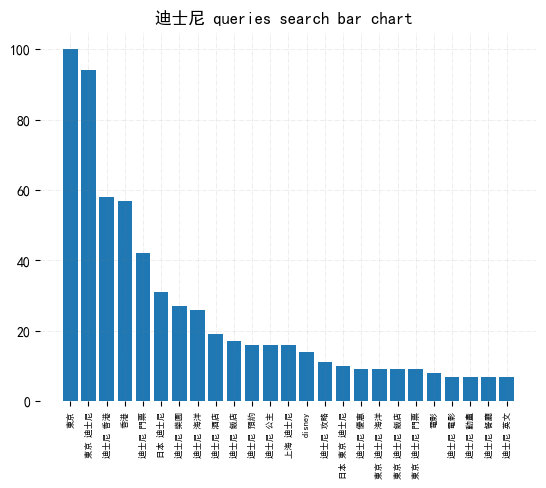
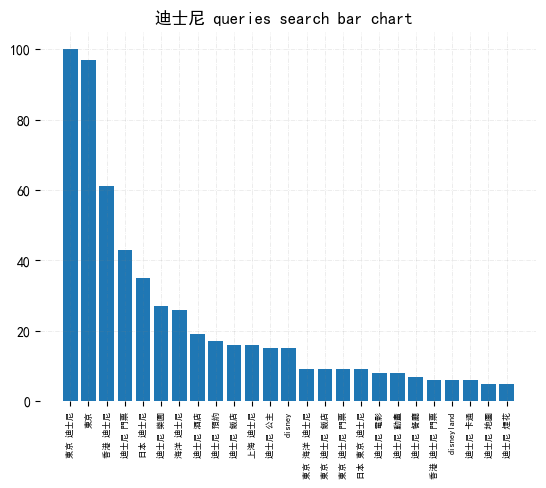
update for the chinese word

diff --git a/serp_api.py b/serp_api.py
@@ -4,8 +4,6 @@ import matplotlib
 matplotlib.use('Agg')
 from matplotlib import pyplot as plt
 from Get_Continent import *
-plt.rcParams["font.sans-serif"]=["SimHei"] #set font
-plt.rcParams["axes.unicode_minus"]=False
 # keyword = "youtube"
 # type = ["GEO_MAP_0","RELATED_QUERIES","RELATED_TOPICS"]
 # key = ["interest_by_region","related_queries","related_topics"] 
@@ -61,6 +59,8 @@ def fetch_data(keyword,type):
             plt.legend(loc='upper center', bbox_to_anchor=(0.5, -0.04), ncol=3)
             plt.title('%s region search pie chart '%keyword)
             image_filename = f'static/img/{keyword}_region.png'
+            plt.rcParams["font.sans-serif"]=["SimHei"] #set font
+            plt.rcParams["axes.unicode_minus"]=False
             plt.savefig(image_filename,bbox_inches='tight')
             data_list.append({"image_filename": image_filename})
             plt.close()
@@ -86,6 +86,8 @@ def fetch_data(keyword,type):
                     alpha=0.2)
             ax.set_title('%s queries search bar chart '%keyword,
                          loc='center', )
+            plt.rcParams["font.sans-serif"]=["SimHei"] #set font
+            plt.rcParams["axes.unicode_minus"]=False
             image_filename = f'static/img/{keyword}_queries.png'
             plt.savefig(image_filename,bbox_inches='tight')
             data_list.append({"image_filename": image_filename})
@@ -115,6 +117,8 @@ def fetch_data(keyword,type):
             plt.legend(loc='upper center', bbox_to_anchor=(0.5, -0.04), ncol=3)
             plt.title('%s topics search pie chart'%keyword)
             image_filename = f'static/img/{keyword}_topics.png'
+            plt.rcParams["font.sans-serif"]=["SimHei"] #set font
+            plt.rcParams["axes.unicode_minus"]=False
             plt.savefig(image_filename,bbox_inches='tight')
             data_list.append({"image_filename": image_filename})
             plt.close()
